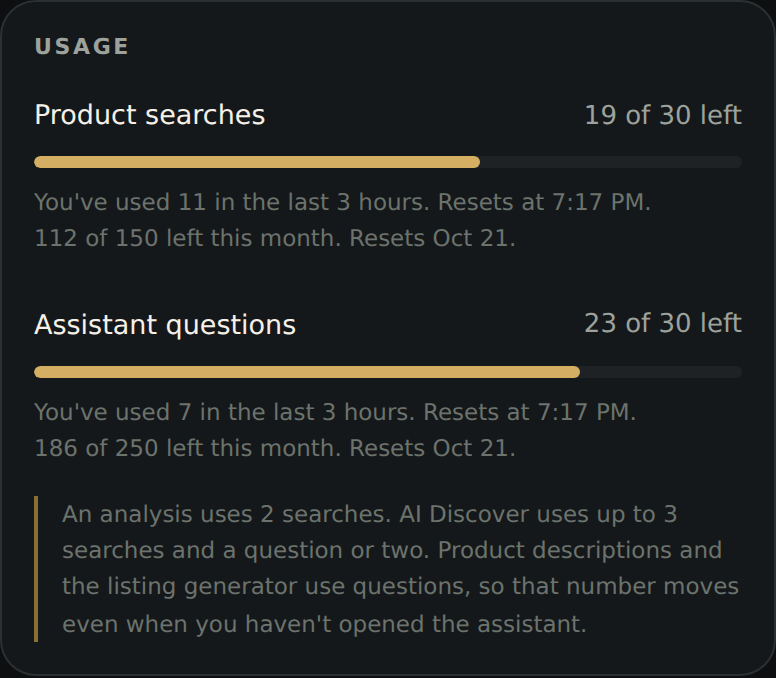
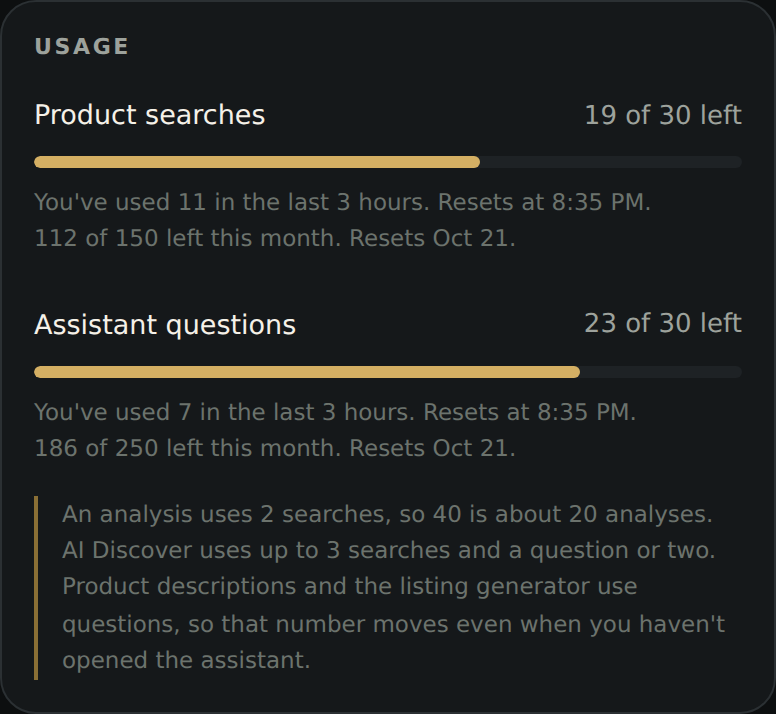
Raise both allowances to 40 per 3 hours
Asked for after seeing what the numbers actually buy. 30 -> 40 on both,
window unchanged. Deployed to all three — product-search v37, ai-assistant
v31, market-research v28 — because the two search functions share a counter
row and a number that differs between them makes the reset time depend on
which one was called last.

Recorded because it is counter-intuitive: raising the window made the
monthly cap bite sooner, not later. 150 searches against 40 a window is
under four full sittings, so somebody who uses one whole window has spent
eight days' worth of their month in an evening. The window is no longer
really the allowance — the month is — and raising one without the other
mostly changes WHEN a subscriber hits a wall rather than how much they get.

The monthly pair is deliberately unchanged at 150 and 250. Moving it is a
money decision rather than a comfort one, and the numbers there were
already chosen without measurement; changing them on a second guess would
not be better than the first. Both are one secret away, no deploy.

The Usage note now says "40 is about 20 analyses" on the screen rather than
leaving the reader to do it, since an analysis is two calls.

791 assertions green.

Claude-Session: https://claude.ai/code/session_01MWdDYBFt23CD34WqoohRwM

diff --git a/supabase/functions/product-search/index.ts b/supabase/functions/product-search/index.ts
@@ -111,15 +111,15 @@ const envWhole = (name: string, fallback: number): number => {
    Tavily search per marketplace plus a page extract — so one call is five
    or six Tavily credits and a single analysis is around a dozen.
 
-   Thirty per three hours is therefore roughly 180 credits per window for
-   one account, or about fifteen analyses. The limit that matters is not how
+   Forty per three hours is therefore roughly 240 credits per window for
+   one account, or about twenty analyses. The limit that matters is not how
    many times somebody presses a button, it is how many credits that button
    spends, and a plan measured in a thousand credits a month does not
    survive many hours at two hundred.
 
-   Worth knowing what thirty buys, because one press is not one unit: an
-   analysis is two calls to this function, so thirty is fifteen analyses, not
-   thirty. Anyone quoting the number to a customer should quote it that way.
+   Worth knowing what forty buys, because one press is not one unit: an
+   analysis is two calls to this function, so forty is twenty analyses, not
+   forty. Anyone quoting the number to a customer should quote it that way.
 
    Three hours rather than one. A window exists to bound a burst, and someone
    researching properly does twenty searches in an evening and then stops —
@@ -132,19 +132,21 @@ const envWhole = (name: string, fallback: number): number => {
 
    Counted in Postgres, not in memory: Edge Functions run on many instances
    and an in-process counter is bypassed by landing on a different one. */
-const SEARCH_MAX = envWhole("SEARCH_MAX", 30), SEARCH_WINDOW = envWhole("SEARCH_WINDOW_SECONDS", 3 * 60 * 60);
+const SEARCH_MAX = envWhole("SEARCH_MAX", 40), SEARCH_WINDOW = envWhole("SEARCH_WINDOW_SECONDS", 3 * 60 * 60);
 
 /* And how many in a month.
 
    The window limit stops a burst. It does nothing about sustained use:
-   thirty every three hours, around the clock, is perfectly legal under it
-   and comes to seven thousand searches a month from one account paying $25.
+   forty every three hours, around the clock, is perfectly legal under it
+   and comes to nine thousand searches a month from one account paying $25.
 
-   Note how quickly the monthly cap becomes the binding one: 150 a month
-   against 30 a window is five full sittings. Somebody who uses a whole
-   window has spent six days' worth of their month. That is a deliberate
-   shape — the month is what bounds the bill — but it is the number to raise
-   first if real subscribers start hitting it.
+   Note how quickly the monthly cap becomes the binding one, and that
+   raising the window made it worse rather than better: 150 a month against
+   40 a window is under four full sittings. Somebody who uses a whole window
+   has spent eight days' worth of their month in an evening. The window is
+   not really the allowance any more — the month is — so raising one without
+   the other mostly changes WHEN a subscriber hits a wall, not how much they
+   get. This is the number to raise first if real subscribers complain.
 
    So there is a second limit the first cannot substitute for. A hundred
    and fifty a month is five a day — far more than a real subscriber uses,
@@ -199,7 +201,7 @@ async function quotaFor(bucket: string, max: number, windowSeconds: number): Pro
 }
 
 /* Hourly and monthly together, so a caller can see which one is limiting
-   them. Reporting only the three-hour balance would read as "30 left" to
+   them. Reporting only the three-hour balance would read as "40 left" to
    somebody the monthly cap is refusing, which is worse than no number. */
 async function bothQuotas(caller: string) {
   const [hour, month] = await Promise.all([

diff --git a/supabase/functions/ai-assistant/index.ts b/supabase/functions/ai-assistant/index.ts
@@ -245,26 +245,26 @@ const envWhole = (name: string, fallback: number): number => {
    One person could run up a serious bill in an afternoon, deliberately or
    by leaving something looping.
 
-   Thirty per three hours is chosen to be invisible. A real conversation is
+   Forty per three hours is chosen to be invisible. A real conversation is
    five to fifteen messages, so nobody using this normally will ever see it,
    while the worst case per account becomes a number you can budget for.
 
    Not every question here is typed by a person. Product descriptions, the
    listing generator and AI Discover all spend from this same allowance, so
    a subscriber can reach the limit without ever opening the chat. That is
-   correct — they all cost the same money — but it means thirty is not
-   thirty conversations.
+   correct — they all cost the same money — but it means forty is not forty
+   conversations.
 
    A window is there to bound a burst, and somebody working through a problem
    asks a dozen questions and stops; an hourly cut-off interrupted that while
    still permitting far more per day. */
-const ASK_MAX = envWhole("ASK_MAX", 30), ASK_WINDOW = envWhole("ASK_WINDOW_SECONDS", 3 * 60 * 60);
+const ASK_MAX = envWhole("ASK_MAX", 40), ASK_WINDOW = envWhole("ASK_WINDOW_SECONDS", 3 * 60 * 60);
 
 /* And how many in a month.
 
    The short window stops a burst. It does nothing about sustained use:
-   thirty every three hours, around the clock, is legal under it and comes to
-   seven thousand questions a month from one account paying $25. Even a human
+   forty every three hours, around the clock, is legal under it and comes to
+   nine thousand questions a month from one account paying $25. Even a human
    asking steadily through a working day costs more than they pay.
 
    Two hundred and fifty a month is about eight a day — well above what a
@@ -285,7 +285,7 @@ const ASK_MAX = envWhole("ASK_MAX", 30), ASK_WINDOW = envWhole("ASK_WINDOW_SECON
 const ASK_MONTH_MAX = envWhole("ASK_MONTH_MAX", 250), ASK_MONTH_WINDOW = 30 * 24 * 60 * 60;
 
 /* Both windows together. Reporting only the three-hour balance would read
-   as "30 left" to somebody the monthly cap is refusing. */
+   as "40 left" to somebody the monthly cap is refusing. */
 async function bothQuotas(asker: string) {
   const [window, month] = await Promise.all([
     quotaFor(`ask:${asker}`, ASK_MAX, ASK_WINDOW),

diff --git a/src/App.jsx b/src/App.jsx
@@ -6075,10 +6075,10 @@ function SettingsPage({ db, put, reset, user, signOut, isPro, ent, refreshEntitl
      counter is broken, and a counter nobody believes is worse than no
      counter — they stop trusting the limit and start emailing about it. */}
  <Note>
- An analysis uses 2 searches. AI Discover uses up to 3 searches and a
- question or two. Product descriptions and the listing generator use
- questions, so that number moves even when you haven't opened the
- assistant.
+ An analysis uses 2 searches, so 40 is about 20 analyses. AI Discover uses
+ up to 3 searches and a question or two. Product descriptions and the
+ listing generator use questions, so that number moves even when you
+ haven't opened the assistant.
  </Note>
  </Group>
  )}

diff --git a/supabase/functions/market-research/index.ts b/supabase/functions/market-research/index.ts
@@ -128,7 +128,7 @@ const envWhole = (name: string, fallback: number): number => {
    And because it is one counter row, the numbers here must match
    product-search exactly. A different window in one of them would make the
    reset time depend on which endpoint happened to be called last. */
-const SEARCH_MAX = envWhole("SEARCH_MAX", 30), SEARCH_WINDOW = envWhole("SEARCH_WINDOW_SECONDS", 3 * 60 * 60);
+const SEARCH_MAX = envWhole("SEARCH_MAX", 40), SEARCH_WINDOW = envWhole("SEARCH_WINDOW_SECONDS", 3 * 60 * 60);
 const SEARCH_MONTH_MAX = envWhole("SEARCH_MONTH_MAX", 150), SEARCH_MONTH_WINDOW = 30 * 24 * 60 * 60;
 
 Deno.serve(async (req: Request) => {

diff --git a/CLAUDE.md b/CLAUDE.md
@@ -243,19 +243,19 @@ when the database is unreachable is worse than the spending it prevents.
 |---|---|---|
 | Sign-in attempts | 10/hour | IP address |
 | Sign-in attempts | 6/hour | username |
-| Product searches | 30 per **3 hours** **and 150/month** | account |
+| Product searches | 40 per **3 hours** **and 150/month** | account |
 | Market research | shares the search buckets | account |
-| Assistant questions | 30 per **3 hours** **and 250/month** | account |
+| Assistant questions | 40 per **3 hours** **and 250/month** | account |
 
 The short window is three hours, not one. That is a bigger single sitting
 and a **lower** sustained rate than an hourly cap: an hourly 25 allowed 75
-searches in any three hours, where 30 per three hours allows 30. Somebody
+searches in any three hours, where 40 per three hours allows 40. Somebody
 researching properly does twenty searches in an evening and then stops, and
 an hourly cut-off interrupted that while still permitting far more per day.
 
 **One press is not one unit, and this is the thing to say out loud when
-quoting the numbers.** An analysis is two calls to `product-search`, so 30
-searches is fifteen analyses. And four features draw on the assistant
+quoting the numbers.** An analysis is two calls to `product-search`, so 40
+searches is twenty analyses. And four features draw on the assistant
 allowance — the chat, product descriptions, the listing generator and AI
 Discover — so a subscriber can spend questions without ever opening the
 chat. Settings says both of these under the meters, because a counter that
@@ -277,17 +277,20 @@ All six numbers are settable from Edge Function secrets without a deploy —
 a stray zero in a dashboard is not a policy change nobody reviewed.
 
 Two windows, because one cannot do the other's job. The short limit stops
-a burst; it says nothing about sustained use. Thirty questions every three
-hours, around the clock, is legal under it and comes to 7,000 questions a
+a burst; it says nothing about sustained use. Forty questions every three
+hours, around the clock, is legal under it and comes to 9,000 questions a
 month from one account paying $25 — and even a human asking steadily
 through a working day costs more than they pay. The monthly cap is what
 makes a single account unable to cost more than it brings in.
 
-At 30 a window the monthly cap becomes the binding limit quickly: 150
-searches against 30 a window is five full sittings, so somebody who uses a
-whole window has spent six days' worth of their month. That shape is
-deliberate — the month is what bounds the bill — but the monthly number is
-the one to raise first if real subscribers start hitting it.
+**The window is no longer really the allowance — the month is.** At 40 a
+window, 150 searches a month is under four full sittings: somebody who uses
+one whole window has spent eight days' worth of their month in an evening.
+The same applies to questions, 250 against 40. Raising the window without
+raising the month mostly changes *when* a subscriber hits a wall, not how
+much they get, so the monthly pair is what to move if real subscribers
+complain. It is deliberate that the month binds — the month is what bounds
+the bill — but it should be a decision rather than a surprise.
 
 **The monthly assistant cap is the number most likely to lose money.** At
 250 questions on `claude-opus-5` with `max_tokens` 16000, a subscriber who
@@ -306,7 +309,7 @@ once one real month of usage has been billed.
 The search number is low because one call is not one Tavily credit. It
 fans out to a search per marketplace plus a page extract, so a call costs
 five or six credits and an analysis costs around a dozen. Forty per three
-hours is about 180 credits per window for one account, and the monthly cap
+hours is about 240 credits per window for one account, and the monthly cap
 of 150 is roughly 900 credits a month. A hundred subscribers all maxing out
 is 90,000 credits a month — check what the plan actually includes before
 promoting to that many people.
